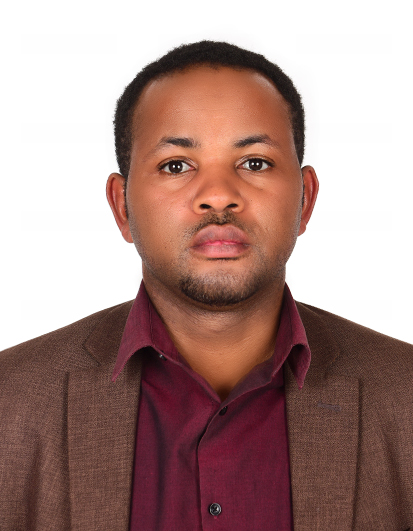
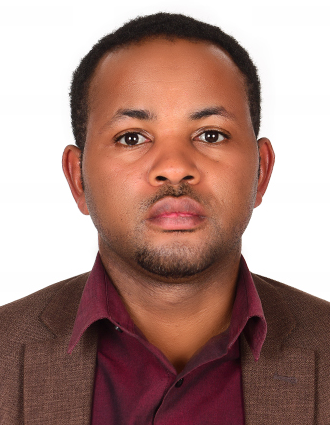
03-July commit

diff --git a/src/components/whoweare/team/meetTheTeam.js b/src/components/whoweare/team/meetTheTeam.js
@@ -1,53 +1,92 @@
-let background = require("../../../img/background/Ndayizeye-nobg.png");
+let jeanpaul = require("../../../img/team/Jean Paul Ndayizeye.JPG");
+let gabriel = require("../../../img/team/gabriel.png");
+let deo = require("../../../img/team/Deogratias.png");
+let desire = require("../../../img/team/lili.jpg");
+let chris = require("../../../img/team/lili.jpg");
+let gisele = require("../../../img/team/Gisele Iyakaremye.jpg");
+let diane = require("../../../img/team/Diane_I-removebg-preview.png");
+let liliane = require("../../../img/team/lili.jpg");
 
-const people = [
+const exec = [
   {
     name: "Dr. Jean Paul Ndayizeye",
-    role: "Co-Founder / CEO",
+    role: "CEO",
     imageUrl:
-      background,
+    jeanpaul,
   },
   {
-    name: "Leslie Alexander",
-    role: "Co-Founder / CEO",
+    name: "Dr. Gabriel Makiriro",
+    role: "Director of Programs",
     imageUrl:
-      "https://images.unsplash.com/photo-1494790108377-be9c29b29330?ixlib=rb-1.2.1&ixid=eyJhcHBfaWQiOjEyMDd9&auto=format&fit=facearea&facepad=2&w=256&h=256&q=80",
-  },
-  {
-    name: "Leslie Alexander",
-    role: "Co-Founder / CEO",
-    imageUrl:
-      "https://images.unsplash.com/photo-1494790108377-be9c29b29330?ixlib=rb-1.2.1&ixid=eyJhcHBfaWQiOjEyMDd9&auto=format&fit=facearea&facepad=2&w=256&h=256&q=80",
-  },
-  {
-    name: "Leslie Alexander",
-    role: "Co-Founder / CEO",
-    imageUrl:
-      "https://images.unsplash.com/photo-1494790108377-be9c29b29330?ixlib=rb-1.2.1&ixid=eyJhcHBfaWQiOjEyMDd9&auto=format&fit=facearea&facepad=2&w=256&h=256&q=80",
+      gabriel,
   },
 ];
+
+const board = [
+  {
+    name: "Dr. Deogratias Kaneza",
+    role: "Chair",
+    imageUrl:
+    deo,
+  },
+  {
+    name: "Dr. Desire Habonimana",
+    role: "Secretary ",
+    // imageUrl:
+    //   desire,
+  },
+  {
+    name: "Dr. Christian Mazimpaka",
+    role: "Member ",
+    // imageUrl:
+    //   chris,
+  },
+];
+
+const staff = [
+  {
+    name: "Gisele Iyakaremye",
+    role: "",
+    imageUrl:
+    gisele,
+  },
+  {
+    name: "Diane Izabayo",
+    role: "",
+    imageUrl:
+      diane,
+  },
+  {
+    name: "Liliane Uwase",
+    role: "IT & Communications Manager",
+    imageUrl:
+      liliane,
+  },
+];
+
+
 
 export default function MeetTheTeam() {
   return (
     <div className="bg-white py-24 sm:py-52">
       <div className="mx-auto grid max-w-7xl gap-x-8 gap-y-20 px-6 lg:px-8 xl:grid-cols-3">
         <div className="max-w-2xl">
-          <h2 className="text-3xl font-bold tracking-tight text-black sm:text-4xl">
-           MEET OUR TEAM
-          </h2>
-          <p className="mt-6 text-lg leading-8 text-gray-600">
-          Meet the team behind the Rwanda Youth Voice for Change organization
+          {/* <h2 className="text-xl font-bold tracking-tight text-black sm:text-2xl uppercase text-center">
+          Key member of the executive committee
+          </h2> */}
+          <p className="mt-6 text-lg leading-8 uppercase text-center font-bold">
+          Key member of the executive committee
           </p>
         </div>
         <ul
           role="list"
           className="grid gap-x-8 gap-y-12 sm:grid-cols-2 sm:gap-y-16 xl:col-span-2"
         >
-          {people.map((person) => (
+          {exec.map((person) => (
             <li key={person.name}>
               <div className="flex items-center gap-x-6">
                 <img
-                  className="h-16 w-16 rounded-full"
+                  className="h-32 w-32"
                   src={person.imageUrl}
                   alt=""
                 />
@@ -63,7 +102,70 @@ export default function MeetTheTeam() {
             </li>
           ))}
         </ul>
-        {/* <MeetTheTeam/> */}
+        <div className="max-w-2xl mt-8">
+          {/* <h2 className="text-xl font-bold tracking-tight text-black sm:text-2xl uppercase text-center">
+          Key member of the executive committee
+          </h2> */}
+          <p className="mt-6 text-lg leading-8 uppercase text-center font-bold">
+          Board of Directors
+          </p>
+        </div>
+        <ul
+          role="list"
+          className="grid gap-x-8 gap-y-12 sm:grid-cols-2 sm:gap-y-16 xl:col-span-2 mt-8"
+        >
+          {board.map((person) => (
+            <li key={person.name}>
+              <div className="flex items-center gap-x-6">
+                <img
+                  className="h-32 w-32"
+                  src={person.imageUrl}
+                  alt=""
+                />
+                <div>
+                  <h3 className="text-base font-semibold leading-7 tracking-tight text-gray-900">
+                    {person.name}
+                  </h3>
+                  <p className="text-sm font-semibold leading-6 text-teal-500">
+                    {person.role}
+                  </p>
+                </div>
+              </div>
+            </li>
+          ))}
+        </ul>
+        <div className="max-w-2xl mt-8">
+          {/* <h2 className="text-xl font-bold tracking-tight text-black sm:text-2xl uppercase text-center">
+          Key member of the executive committee
+          </h2> */}
+          <p className="mt-6 text-lg leading-8 uppercase text-center font-bold">
+          Key Staff
+          </p>
+        </div>
+        <ul
+          role="list"
+          className="grid gap-x-8 gap-y-12 sm:grid-cols-2 sm:gap-y-16 xl:col-span-2 mt-8"
+        >
+          {staff.map((person) => (
+            <li key={person.name}>
+              <div className="flex items-center gap-x-6">
+                <img
+                  className="h-32 w-32"
+                  src={person.imageUrl}
+                  alt=""
+                />
+                <div>
+                  <h3 className="text-base font-semibold leading-7 tracking-tight text-gray-900">
+                    {person.name}
+                  </h3>
+                  <p className="text-sm font-semibold leading-6 text-teal-500">
+                    {person.role}
+                  </p>
+                </div>
+              </div>
+            </li>
+          ))}
+        </ul>
       </div>
     </div>
   );

diff --git a/src/components/footer/partners.js b/src/components/footer/partners.js
@@ -1,49 +1,132 @@
 export default function Partners() {
-    return (
-      <div className="bg-white py-24 sm:py-32">
-        <div className="mx-auto max-w-7xl px-6 lg:px-8">
-          <h2 className="text-center text-lg font-semibold leading-8 text-gray-900">
-            Trusted by the world’s most innovative teams
-          </h2>
-          <div className="mx-auto mt-10 grid max-w-lg grid-cols-4 items-center gap-x-8 gap-y-10 sm:max-w-xl sm:grid-cols-6 sm:gap-x-10 lg:mx-0 lg:max-w-none lg:grid-cols-5">
+  return (
+    <div className="bg-white py-20 sm:py-16">
+      <div className="mx-auto max-w-8xl px-6 lg:px-8">
+        <h2 className="text-center text-2xl font-semibold leading-8 text-gray-900">
+          Our Partners
+        </h2>
+        <div className="mx-auto mt-10 grid max-w-lg grid-cols-4 items-center gap-x-8 gap-y-10 sm:max-w-xl sm:grid-cols-6 sm:gap-x-10 lg:mx-0 lg:max-w-none lg:grid-cols-5">
+          <a
+            href="https://amplifychange.org/about/ "
+            target="_blank"
+            rel="noreferrer"
+          >
             <img
               className="col-span-2 max-h-12 w-full object-contain lg:col-span-1"
-              src="https://tailwindui.com/img/logos/158x48/transistor-logo-gray-900.svg"
+              src={require("../../img/partners/amplify.png")}
               alt="Transistor"
               width={158}
               height={48}
             />
+          </a>
+          <a
+            href="https://www.younghealthprogrammeyhp.com/impact-fellowship.html "
+            target="_blank"
+            rel="noreferrer"
+          >
             <img
               className="col-span-2 max-h-12 w-full object-contain lg:col-span-1"
-              src="https://tailwindui.com/img/logos/158x48/reform-logo-gray-900.svg"
+              src={require("../../img/partners/astra.png")}
               alt="Reform"
               width={158}
               height={48}
             />
+          </a>
+          <a
+            href="https://codingbeautydev.com"
+            target="_blank"
+            rel="noreferrer"
+          >
             <img
               className="col-span-2 max-h-12 w-full object-contain lg:col-span-1"
-              src="https://tailwindui.com/img/logos/158x48/tuple-logo-gray-900.svg"
+              src={require("../../img/partners/iidea.png")}
               alt="Tuple"
               width={158}
               height={48}
             />
+          </a>
+          <a
+            href="https://www.makeinroads.org/making-inroads "
+            target="_blank"
+            rel="noreferrer"
+          >
             <img
               className="col-span-2 max-h-12 w-full object-contain sm:col-start-2 lg:col-span-1"
-              src="https://tailwindui.com/img/logos/158x48/savvycal-logo-gray-900.svg"
+              src={require("../../img/partners/inroad.png")}
               alt="SavvyCal"
               width={158}
               height={48}
             />
+          </a>
+          <a
+            href="https://www.mtvstayingalive.org/ "
+            target="_blank"
+            rel="noreferrer"
+          >
             <img
               className="col-span-2 col-start-2 max-h-12 w-full object-contain sm:col-start-auto lg:col-span-1"
-              src="https://tailwindui.com/img/logos/158x48/statamic-logo-gray-900.svg"
+              src={require("../../img/partners/mtv.png")}
               alt="Statamic"
               width={158}
               height={48}
             />
-          </div>
+          </a>
+        </div>
+        <div className="mx-auto mt-10 grid max-w-lg grid-cols-4 items-center gap-x-8 gap-y-10 sm:max-w-xl sm:grid-cols-6 sm:gap-x-10 lg:mx-0 lg:max-w-none lg:grid-cols-4">
+          <a
+            href="https://spidercenter.org/ "
+            target="_blank"
+            rel="noreferrer"
+          >
+            <img
+              className="col-span-2 max-h-12 w-full object-contain lg:col-span-1"
+              src={require("../../img/partners/Screenshot 2023-06-26 at 4.32.53 PM.png")}
+              alt="Transistor"
+              width={158}
+              height={48}
+            />
+          </a>
+          <a
+            href="https://www.sickkidsfoundation.com/ "
+            target="_blank"
+            rel="noreferrer"
+          >
+            <img
+              className="col-span-2 max-h-12 w-full object-contain lg:col-span-1"
+              src={require("../../img/partners/sickkid.png")}
+              alt="Reform"
+              width={158}
+              height={48}
+            />
+          </a>
+          <a
+            href="https://www.eac.int/education/17-basic-page/498-780-462-call-for-applications-incubator-for-integration-and-development-in-east-africa-iidea"
+            target="_blank"
+            rel="noreferrer"
+          >
+            <img
+              className="col-span-2 max-h-12 w-full object-contain lg:col-span-1"
+              src={require("../../img/partners/step.png")}
+              alt="Tuple"
+              width={158}
+              height={48}
+            />
+          </a>
+          <a
+            href="https://womendeliver.org/ "
+            target="_blank"
+            rel="noreferrer"
+          >
+            <img
+              className="col-span-2 max-h-12 w-full object-contain sm:col-start-2 lg:col-span-1"
+              src={require("../../img/partners/women.png")}
+              alt="SavvyCal"
+              width={158}
+              height={48}
+            />
+          </a>
         </div>
       </div>
-    )
-  }
-  
+    </div>
+  );
+}

diff --git a/src/App.js b/src/App.js
@@ -3,6 +3,7 @@ import React from "react";
 import { BrowserRouter as Router, Routes, Route } from "react-router-dom";
 import Copyright from "./components/footer/copyright";
 import Footer from "./components/footer/footer";
+import Partners from "./components/footer/partners";
 import Contact from "./components/homepage/contact";
 import Interview from "./components/homepage/interview";
 import Header from "./components/navbar/header";
@@ -39,6 +40,7 @@ function App() {
       <div className="bg-white">
         <Contact />
       </div>
+      <Partners/>
       <Interview />
       <Footer />
       <Copyright />
